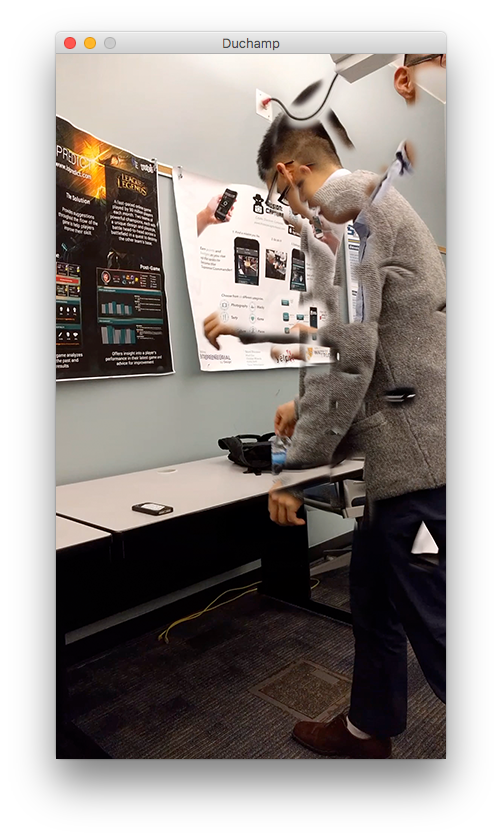
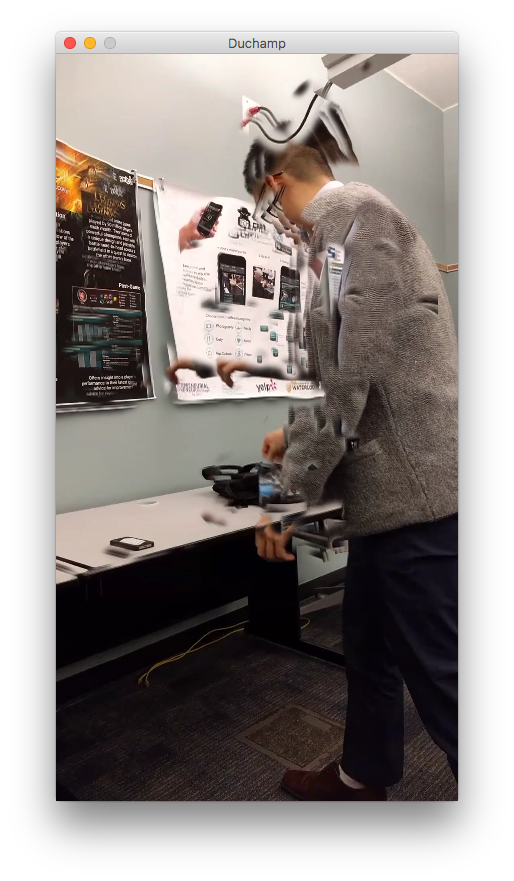
Update Duchamp images

diff --git a/content/programming/duchamp.html b/content/programming/duchamp.html
@@ -2,7 +2,7 @@
 {
     "title": "Duchamp",
     "date": "2017-04-12",
-    "excerpt": "Creates a \"Nude Descending Staircase\"-like image given an image sequence",
+    "excerpt": "Creates a \"Nude Descending Staircase\"-like image given a video file",
     "thumbnail": "%root%/content/images/2017/5/duchamp-thumbnail.jpg",
     "category": "programming",
     "languages": [
@@ -19,7 +19,7 @@
 -->
 
 
-Creates a <a href="https://upload.wikimedia.org/wikipedia/en/archive/c/c0/20150719231100%21Duchamp_-_Nude_Descending_a_Staircase.jpg">Nude Descending Staircase</a>-like image given an image sequence.
+Often times, <a href="https://en.wikipedia.org/wiki/Cubism">Cubist</a> paintings reduce the dimensionality of the subject. Multiple angles can be compressed into a single image, or in the case of <a href="https://upload.wikimedia.org/wikipedia/en/archive/c/c0/20150719231100%21Duchamp_-_Nude_Descending_a_Staircase.jpg">Nude Descending Staircase</a>, time is compressed into a single image. This program takes a video and condenses it into one image in the style of the Cubists.
 
 ## Examples
 ### Without tesselation
@@ -41,7 +41,7 @@ Then, we need to align the filtered versions of the previous and next frame. To 
 
 <img src="%root%/content/images/2017/5/arrange-medium.jpg" full="%root%/content/images/2017/5/arrange.png" caption="Arranging two frames to minimize the difference between them" />
 
-We do this for all successive images in the sequence. The shape of the final image is the largest rectangle that contains only image and no empty space. For each frame added, we can take the intersection of the offsetted frame and the previous bounds to get the new bounds to get this.
+We do this for all successive images in the sequence. The shape of the final image is the largest rectangle that contains only image and no empty space.
 
 ### 2. Find the interesting parts
 We want to have all the moving parts in each frame visible in the final image, so we have to find them. Once our image pairs are aligned, we want to see what regions change from one image to the next so we can redraw those regions on top of the final image. If we just take the difference between frames A and B, we can see what regions changed, but we aren't sure which came from what image. A way to get around this is to subtract the difference between the next frame pair, B and C, from the A-B difference. The `SUBTRACT` blend mode is different than `DIFFERENCE` because it caps the colour at black (so it is defined as `min(B-A, 0)` for images A and B). We end up just removing all parts of the A-B difference also in B-C, effectively leaving just the contributions from A.
